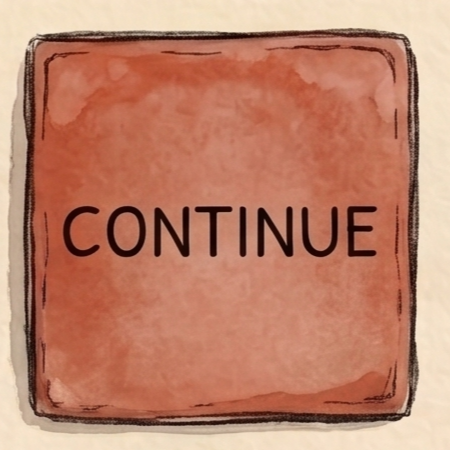
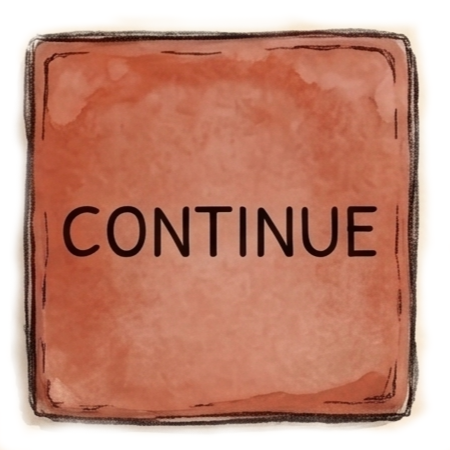
Version 5.1.4 better visuals, transparent bg for ui arduino interactions and text fields

Changed region(s): [[0.0, 0.0, 1.0, 1.0]]

diff --git a/sketch.js b/sketch.js
@@ -22,8 +22,9 @@ const FILES = {
   dogGood: "meeting the dog  happy and neutral choices .png",
   dogBad: "meeting the dog bad choice.png",
   catDonkey: "meeting cat only donkey bad and neutral choice.png",
-  catDog: "meeting the cat with donkey and dog.png",
-  catGood: "Donkey meeting cat good choice.png",
+  catDogSad: "meeting the sad cat with donkey and dog.png",
+  catGoodDonkey: "Donkey alone meeting cat good choice cat joining.png",
+  catGoodDog: "donkey and dog happy cat joining them good choice .png",
   roosterDonkey: "meeting the rooster with only donkey.png",
   roosterDog: "meeting the rooster with donkey and dog.png",
   roosterCat: "meeting rooster with donkey and cat.png",
@@ -185,7 +186,7 @@ function drawChoicePage() {
   drawSceneImage(currentChoice.image, currentChoice.overlay ?? 42);
   drawTextBox(currentChoice.question, "Choose with yellow, green, or white.", "top");
   currentChoice.options.forEach((option, index) => {
-    drawChoiceCard(82 + index * 430, 504, 386, 190, option, index);
+    drawChoiceCard(54 + index * 436, 452, 398, 258, option, index);
   });
 }
 
@@ -237,28 +238,94 @@ function drawFade() {
 }
 
 function drawTextBox(body, footer, position) {
-  const box = getTextBox(position);
+  const box = layoutTextBox(body, footer, position);
   drawTextBoxUi(box.x, box.y, box.w, box.h);
   fill(COLORS.ink || "#2b1b10");
   textStyle(NORMAL);
   textSize(box.fontSize);
   textLeading(box.leading);
-  text(body, box.x + 34, box.y + 34, box.w - 68, box.h - 92);
+  textAlign(LEFT, TOP);
+  text(body, box.x + box.padX, box.bodyY, box.w - box.padX * 2, box.bodyH);
   fill("#5a3518");
   textSize(18);
+  textLeading(23);
   if (footer.toLowerCase().includes("red")) {
-    drawUiImage("redContinue", box.x + 30, box.y + box.h - 58, 42, 42);
-    text(footer, box.x + 84, box.y + box.h - 32, box.w - 118);
+    drawUiImage("redContinue", box.x + box.padX, box.footerY - 9, 42, 42);
+    text(footer, box.x + box.padX + 54, box.footerY, box.w - box.padX * 2 - 54, 34);
   } else {
-    text(footer, box.x + 34, box.y + box.h - 36, box.w - 68);
+    text(footer, box.x + box.padX, box.footerY, box.w - box.padX * 2, 34);
   }
+  textAlign(LEFT, BASELINE);
 }
 
 function getTextBox(position) {
-  if (position === "top") return { x: 74, y: 48, w: 1228, h: 178, fontSize: 23, leading: 31 };
-  if (position === "right") return { x: 716, y: 82, w: 586, h: 394, fontSize: 23, leading: 32 };
-  if (position === "bottom") return { x: 84, y: 514, w: 1208, h: 180, fontSize: 22, leading: 30 };
-  return { x: 74, y: 82, w: 610, h: 420, fontSize: 23, leading: 32 };
+  if (position === "top") return { x: 74, y: 48, w: 1228, h: 178, minW: 660, minH: 126, fontSize: 21, leading: 28, padX: 42, padY: 34 };
+  if (position === "right") return { x: 716, y: 82, w: 586, h: 394, minW: 430, minH: 158, fontSize: 21, leading: 29, padX: 38, padY: 36 };
+  if (position === "bottom") return { x: 84, y: 514, w: 1208, h: 180, minW: 620, minH: 128, fontSize: 20, leading: 27, padX: 42, padY: 34 };
+  return { x: 74, y: 82, w: 610, h: 420, minW: 430, minH: 158, fontSize: 21, leading: 29, padX: 38, padY: 36 };
+}
+
+function layoutTextBox(body, footer, position) {
+  const base = getTextBox(position);
+  const bodyLength = body.length;
+  const shrink = bodyLength < 220 ? map(constrain(bodyLength, 40, 220), 40, 220, 0.68, 1) : 1;
+  const box = {
+    ...base,
+    w: Math.round(Math.max(base.minW, base.w * shrink)),
+  };
+
+  if (position === "top" || position === "bottom") {
+    box.x = Math.round((1376 - box.w) / 2);
+  } else if (position === "right") {
+    box.x = base.x + (base.w - box.w);
+  }
+
+  fitTextToBox(body, box, footer);
+  return box;
+}
+
+function fitTextToBox(body, box, footer) {
+  const footerH = footer ? 42 : 0;
+  const footerGap = footer ? 18 : 0;
+  let lines = [];
+
+  while (box.fontSize >= 17) {
+    textSize(box.fontSize);
+    textLeading(box.leading);
+    lines = wrapTextLines(body, box.w - box.padX * 2);
+    const bodyH = lines.length * box.leading;
+    const wantedH = bodyH + box.padY * 2 + footerGap + footerH;
+    if (wantedH <= box.h || box.fontSize === 17) break;
+    box.fontSize -= 1;
+    box.leading = Math.max(23, box.leading - 1);
+  }
+
+  const bodyH = lines.length * box.leading;
+  const wantedH = bodyH + box.padY * 2 + footerGap + footerH;
+  box.h = Math.max(box.minH, Math.min(box.h, Math.ceil(wantedH)));
+  const bodyAreaH = box.h - box.padY * 2 - footerGap - footerH;
+  box.bodyH = bodyAreaH;
+  box.bodyY = box.y + box.padY + Math.max(0, (bodyAreaH - bodyH) / 2);
+  box.footerY = box.y + box.h - box.padY - footerH + 3;
+}
+
+function wrapTextLines(value, maxWidth) {
+  const lines = [];
+  const paragraphs = value.split("\n");
+  paragraphs.forEach((paragraph) => {
+    let line = "";
+    paragraph.split(/\s+/).forEach((word) => {
+      const testLine = line ? `${line} ${word}` : word;
+      if (line && textWidth(testLine) > maxWidth) {
+        lines.push(line);
+        line = word;
+      } else {
+        line = testLine;
+      }
+    });
+    if (line) lines.push(line);
+  });
+  return lines.length ? lines : [""];
 }
 
 function drawPanel(x, y, w, h, colorValue) {
@@ -284,17 +351,20 @@ function drawTextBoxUi(x, y, w, h) {
 }
 
 function drawChoiceCard(x, y, w, h, option, index) {
-  drawPanel(x, y, w, h, COLORS.panelStrong);
+  drawTextBoxUi(x, y, w, h);
   const uiKey = index === 0 ? "yellowChoice1" : index === 1 ? "greenChoice2" : "whiteChoice3";
-  drawUiImage(uiKey, x + 18, y + 18, 70, 70);
-  fill(COLORS.paper);
+  drawUiImage(uiKey, x + 22, y + 22, 62, 62);
+  fill(COLORS.ink);
+  textAlign(LEFT, TOP);
   textStyle(BOLD);
   textSize(20);
-  text(option.label, x + 104, y + 31, w - 126, 42);
+  textLeading(24);
+  text(option.label, x + 100, y + 33, w - 128, 32);
   textStyle(NORMAL);
-  textSize(16);
-  textLeading(22);
-  text(option.text, x + 24, y + 98, w - 48, 76);
+  textSize(15);
+  textLeading(20);
+  text(option.text, x + 30, y + 98, w - 60, h - 120);
+  textAlign(LEFT, BASELINE);
 }
 
 function drawUiImage(key, x, y, w, h) {
@@ -415,8 +485,8 @@ function introPages() {
   return [
     page("intro", "A man had a donkey, who for long years had untiringly carried sacks to the mill, but whose strength was now failing, so that he was becoming less and less able to work.", "left"),
     page("intro", "Then his master thought that he would no longer feed him. The donkey noticed that the wind was blowing less and less and ran away, setting forth on the road to Bremen, where he thought he could become a town musician as he always had a good ear for sounds.", "left"),
-    page("road", "When he had gone a little way he found a hunting dog lying in the road, who was panting like one who had run himself tired.", "left"),
-    page("road", "\"Why are you panting so, hunting dog?\" asked the donkey. \"Oh,\" said the dog, \"because I am old and am getting weaker every day and can no longer go hunting, my master wanted to kill me, so I ran off; but now how should I earn my bread?\"", "left", "dogChoice"),
+    page("dogGood", "When he had gone a little way he found a hunting dog lying in the road, who was panting like one who had run himself tired.", "left"),
+    page("dogGood", "\"Why are you panting so, hunting dog?\" asked the donkey. \"Oh,\" said the dog, \"because I am old and am getting weaker every day and can no longer go hunting, my master wanted to kill me, so I ran off; but now how should I earn my bread?\"", "left", "dogChoice"),
   ];
 }
 
@@ -461,14 +531,15 @@ function catIntroPages() {
     ? "It didn't take long, before the donkey and the former hunting dog came to a cat sitting by the side of the road and making a face like three days of rainy weather."
     : "It didn't take long, before the donkey came to a cat sitting by the side of the road and making a face like three days of rainy weather.";
   return [
-    page(withDog ? "catDog" : "catDonkey", `${text} \"What has crossed you, old Milk-Licker?\" said the donkey.`, "left"),
-    page(withDog ? "catDog" : "catDonkey", "\"Oh,\" answered the cat, \"who can be cheerful when his neck is at risk? I am getting on in years, and my teeth are getting dull, so I would rather sit behind the stove and purr than to chase around after mice. Therefore, my mistress wanted to drown me, but I took off. Now good advice is scarce. Where should I go?\"", "left", "catChoice"),
+    page(withDog ? "catDogSad" : "catDonkey", `${text} \"What has crossed you, old Milk-Licker?\" said the donkey.`, "left"),
+    page(withDog ? "catDogSad" : "catDonkey", "\"Oh,\" answered the cat, \"who can be cheerful when his neck is at risk? I am getting on in years, and my teeth are getting dull, so I would rather sit behind the stove and purr than to chase around after mice. Therefore, my mistress wanted to drown me, but I took off. Now good advice is scarce. Where should I go?\"", "left", "catChoice"),
   ];
 }
 
 function catChoice() {
+  const withDog = companions.dog;
   return {
-    image: companions.dog ? "catDog" : "catDonkey",
+    image: withDog ? "catDogSad" : "catDonkey",
     question: "How should the donkey answer the cat?",
     options: [
       {
@@ -476,7 +547,7 @@ function catChoice() {
         text: "\"Come along to Bremen! After all, you understand night music. You can become a town musician there and help draw an audience!\"",
         joins: "cat",
         pages: [
-          page("catGood", "\"Come along to Bremen! After all, you understand night music. You can become a town musician there and help draw an audience!\" said the donkey excitedly. The cat was surprised by the cheerful invitation, but the thought of becoming a musician sounded much better than sitting alone and afraid. Convinced, the cat joined the donkey on his journey.", "left"),
+          page(withDog ? "catGoodDog" : "catGoodDonkey", "\"Come along to Bremen! After all, you understand night music. You can become a town musician there and help draw an audience!\" said the donkey excitedly. The cat was surprised by the cheerful invitation, but the thought of becoming a musician sounded much better than sitting alone and afraid. Convinced, the cat joined the donkey on his journey.", "left"),
           page("road", "They continued along the road toward Bremen.", "left", "roosterIntro"),
         ],
       },
@@ -484,7 +555,7 @@ function catChoice() {
         label: "Choice 2",
         text: "\"Wouldn't it be better to have one last hurray? In your old age. Come with us/me to Bremen, its better than staying here and waiting for your demise.\"",
         pages: [
-          page(companions.dog ? "catDog" : "catDonkey", "\"Wouldn't it be better to have one last hurray? In your old age. Come with us/me to Bremen, its better than staying here and waiting for your demise.\" The donkey spouted. The cat was baffled by the mean words, they were true but mean. With a big huff and puff the cat decided to turn around and sleep declining the offer.", "left"),
+          page(withDog ? "catDogSad" : "catDonkey", "\"Wouldn't it be better to have one last hurray? In your old age. Come with us/me to Bremen, its better than staying here and waiting for your demise.\" The donkey spouted. The cat was baffled by the mean words, they were true but mean. With a big huff and puff the cat decided to turn around and sleep declining the offer.", "left"),
           page("road", "The donkey continued along the road toward Bremen without the cat.", "left", "roosterIntro"),
         ],
       },
@@ -492,7 +563,7 @@ function catChoice() {
         label: "Choice 3",
         text: "\"Well you seem to be aging alright; I wanted to invite you to join us/me in our adventure to be musicians but clearly you can't use your muscles like you used to...\"",
         pages: [
-          page(companions.dog ? "catDog" : "catDonkey", "\"Well you seem to be aging alright; I wanted to invite you to join us/me in our adventure to be musicians but clearly you can't use your muscles like you used to...\" The donkey said in a joking manner, trying to get laughs but instead was met with a hiss from the cat so shrill and lethal, it made the donkey flee and run along the path, far away from the cat.", "left"),
+          page(withDog ? "catDogSad" : "catDonkey", "\"Well you seem to be aging alright; I wanted to invite you to join us/me in our adventure to be musicians but clearly you can't use your muscles like you used to...\" The donkey said in a joking manner, trying to get laughs but instead was met with a hiss from the cat so shrill and lethal, it made the donkey flee and run along the path, far away from the cat.", "left"),
           page("road", "The donkey continued along the road toward Bremen without the cat.", "left", "roosterIntro"),
         ],
       },

diff --git a/PROJECT_SOURCE_OF_TRUTH.md b/PROJECT_SOURCE_OF_TRUTH.md
@@ -1,6 +1,6 @@
 # Bremen Town Musicians - Project Source of Truth
 
-Last updated: 2026-05-26
+Last updated: 2026-05-27
 
 ## Project Goal
 
@@ -180,6 +180,8 @@ Bad ending:
 - Road transition images may be inserted between encounters so a previous animal scene does not remain visible during the next encounter.
 - Transparent animal images are used only for the tower stacking mini-game.
 - Text boxes are semi-transparent when they overlap full scene images.
+- Narrative text boxes resize to the current text instead of using one fixed box size for every page.
+- Choice screens use one separate text-box UI image for each choice option.
 - The old bottom party indicator has been removed.
 - Scene images are drawn with full-image containment to avoid cropping/over-zooming.
 
@@ -196,11 +198,22 @@ Dog:
 - `meeting the dog  happy and neutral choices .png`
 - `meeting the dog bad choice.png`
 
+The good/neutral dog image is also used for the dog introduction and dog choice screen. It remains through the dog scene unless the bad dog choice is selected.
+
 Cat:
 
 - `meeting cat only donkey bad and neutral choice.png`
-- `meeting the cat with donkey and dog.png`
-- `Donkey meeting cat good choice.png`
+- `meeting the sad cat with donkey and dog.png`
+- `Donkey alone meeting cat good choice cat joining.png`
+- `donkey and dog happy cat joining them good choice .png`
+
+Cat image rules:
+
+- If the dog did not join, the cat introduction and non-joining cat choices use `meeting cat only donkey bad and neutral choice.png`.
+- If the dog joined, the cat introduction and non-joining cat choices use `meeting the sad cat with donkey and dog.png`.
+- The cat image changes to a happy joining image only after cat choice 1 is selected.
+- If cat choice 1 is selected without the dog, use `Donkey alone meeting cat good choice cat joining.png`.
+- If cat choice 1 is selected with the dog, use `donkey and dog happy cat joining them good choice .png`.
 
 Rooster:
 

diff --git a/STORY_BRANCH_IMAGE_ORDER.md b/STORY_BRANCH_IMAGE_ORDER.md
@@ -5,7 +5,7 @@ This file documents the current image order in `sketch.js`.
 ## Shared Start
 
 1. `the old mill donkey intro.png`
-2. `bg_road for walking.png`
+2. `meeting the dog  happy and neutral choices .png`
 3. Dog choice screen: `meeting the dog  happy and neutral choices .png`
 
 ## Dog Choice Branches
@@ -32,7 +32,7 @@ Choice 3, white, dog does not join:
 
 If dog joined:
 
-1. `meeting the cat with donkey and dog.png`
+1. `meeting the sad cat with donkey and dog.png`
 
 If dog did not join:
 
@@ -42,20 +42,21 @@ If dog did not join:
 
 Choice 1, yellow, cat joins:
 
-1. `Donkey meeting cat good choice.png`
-2. `bg_road for walking.png`
-3. Rooster intro
+1. If dog joined: `donkey and dog happy cat joining them good choice .png`
+2. If dog did not join: `Donkey alone meeting cat good choice cat joining.png`
+3. `bg_road for walking.png`
+4. Rooster intro
 
 Choice 2, green, cat does not join:
 
-1. If dog joined: `meeting the cat with donkey and dog.png`
+1. If dog joined: `meeting the sad cat with donkey and dog.png`
 2. If dog did not join: `meeting cat only donkey bad and neutral choice.png`
 3. `bg_road for walking.png`
 4. Rooster intro
 
 Choice 3, white, cat does not join:
 
-1. If dog joined: `meeting the cat with donkey and dog.png`
+1. If dog joined: `meeting the sad cat with donkey and dog.png`
 2. If dog did not join: `meeting cat only donkey bad and neutral choice.png`
 3. `bg_road for walking.png`
 4. Rooster intro
@@ -136,4 +137,3 @@ Neutral route:
    - dog + rooster: `ending_neutral_donkey_dog_rooster.png`
    - cat + rooster: `ending neutral_donkey_cat_rooster.png`
 11. `neutral ending background after animal ending is shown last image.png`
-
